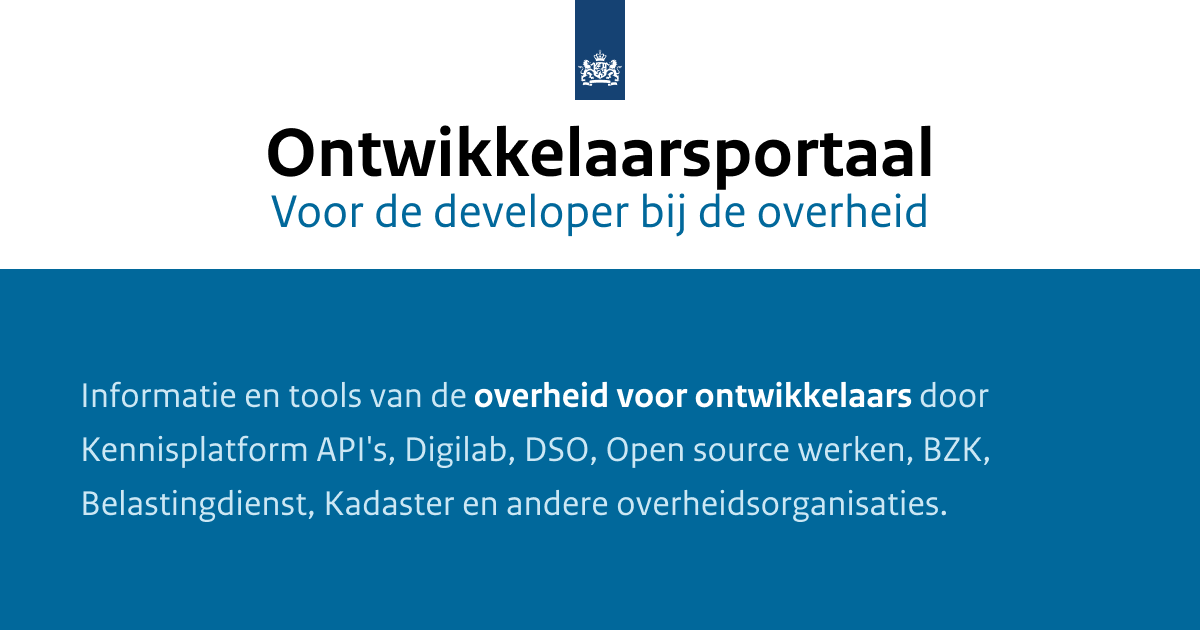
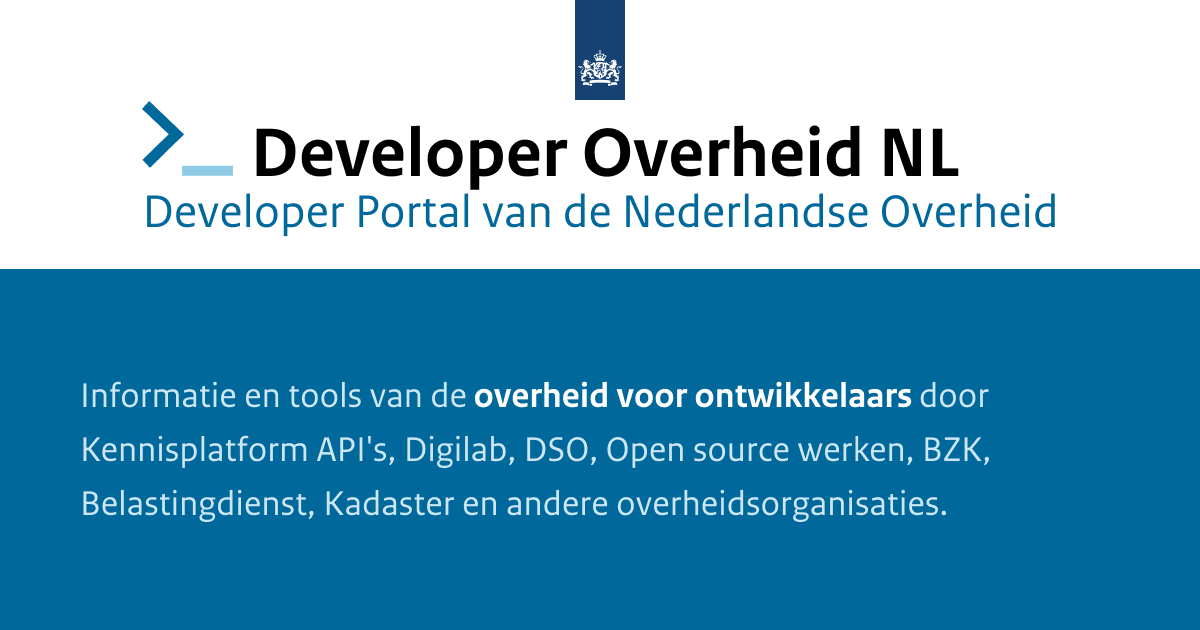
Share image update

Changed region(s): [[0.1233, 0.1508, 0.8942, 0.3619]]

diff --git a/docusaurus.config.ts b/docusaurus.config.ts
@@ -6,11 +6,11 @@ import remarkDirectiveSugar from 'remark-directive-sugar';
 // This runs in Node.js - Don't use client-side code here (browser APIs, JSX...)
 
 const config: Config = {
-  title: "Developer.overheid.nl",
+  title: "Developer.Overheid.NL",
   customFields: {
-    siteName: 'Developer Portal'
+    siteName: 'Developer Overheid NL'
   },
-  tagline: "Eén plek voor developers bij de overheid",
+  tagline: "Developer Portal van de Nederlandse Overheid",
   organizationName: "developer.overheid.nl",
   favicon: "favicon.svg",
   headTags: [
